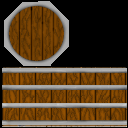
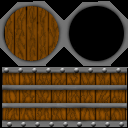
Barrels shows what liquid they carry; metal barrel doesn't look awful :D

diff --git a/planet/Objects.ocd/Items.ocd/Tools.ocd/Barrel.ocd/Script.c b/planet/Objects.ocd/Items.ocd/Tools.ocd/Barrel.ocd/Script.c
@@ -7,8 +7,6 @@
 
 local szLiquid;
 local iVolume;
-local Closed;
-local iDrain;
 
 local debug;
 
@@ -19,17 +17,14 @@ public func GetCarryPhase() { return 900; }
 protected func Initialize()
 {
 	iVolume = 0;
-	Closed = false;
-	iDrain = 3 + RandomX(0,2); //Vertical offset of liquid intake from barrel center
-
 	debug=0;
 }
 
 private func Hit()
 {
 	Sound("WoodHit");
-	if(iVolume >= 1 && Closed == false) {
-		if(GBackLiquid(0,iDrain) && GetMaterial(0,iDrain) != szLiquid) return 0;
+	if(iVolume >= 1) {
+		if(GBackLiquid(0,3) && GetMaterial(0,3) != szLiquid) return 0;
 		EmptyBarrel(GetR());
 		Sound("Splash1");
 	}
@@ -38,11 +33,12 @@ private func Hit()
 private func Check()
 {
 	//Fills Barrel with specified liquid from if submerged
-	var iSource = iDrain + RandomX(0,4);
+	var iSource = 3;
 
-	//if(GetMaterial(0,iSource) == Material("Water") && Closed == false) FillBarrel("Water");
-	//if(GetMaterial(0,iSource)== Material("Oil") && Closed==false) FillBarrel("Oil");
-	if(GBackLiquid(0,iSource) && Closed == false) FillBarrel(MaterialName(GetMaterial(0,iSource)));
+	if(GBackLiquid(0,iSource))
+	{
+		FillWithLiquid();
+	}
 
 	if(iVolume == 0) {
 		SetGraphics();
@@ -57,14 +53,27 @@ private func Check()
 	if(debug == 1) Message("Volume:|%d|Liquid:|%s", iVolume, szLiquid);
 }
 
+//over-ridden with metal barrel
+private func FillWithLiquid()
+{
+	var mat = GetMaterial();
+
+	if(mat == Material("Water"))
+	{
+		FillBarrel(MaterialName(mat));
+		SetMeshMaterial("Barrel_Water");
+	}
+}
+
 private func FillBarrel(string szMat)
 {
 	var iCapacity = 300;
+	var intake = 3;
 	
 	if(iVolume >= 1 && szMat != szLiquid) return 0;
-	while(iVolume != iCapacity && GetMaterial(0,iDrain) == Material(szMat))
+	while(iVolume != iCapacity && GetMaterial(0,intake) == Material(szMat))
 	{
-		ExtractLiquid(0,iDrain);
+		ExtractLiquid(0,intake);
 		iVolume = ++iVolume;
 	}
 	szLiquid = szMat;
@@ -76,16 +85,17 @@ private func EmptyBarrel(int iAngle, int iStrength)
 	if(!iStrength) iStrength = 30;
 	CastPXS(szLiquid, iVolume,iStrength,0,0,iAngle,30);
 	iVolume = 0;
+	OriginalTex();
+}
+
+//over-ridden with metal barrel
+private func OriginalTex()
+{
+	SetMeshMaterial("Barrel");
 }
 
 public func ControlUse(object clonk, int iX, int iY)
 {
-	if(Closed == true) {
-		Closed = false;
-		Sound(" "); //Wood scrape sound
-		return 1;
-	}
-
 	var AimAngle=Angle(0,0, iX, iY);
 	if(iVolume >= 1)
 	{
@@ -98,6 +108,9 @@ public func ControlUse(object clonk, int iX, int iY)
 
 public func IsToolProduct() { return 1; }
 
+func Definition(def) {
+	SetProperty("PictureTransformation",Trans_Mul(Trans_Translate(0,1000,0), Trans_Rotate(-40,1,0,0), Trans_Rotate(20,0,0,1)), def);
+}
 local Collectible = 1;
 local Name = "$Name$";
 local Description = "$Description$";

diff --git a/planet/Objects.ocd/Items.ocd/Tools.ocd/Barrel.ocd/MetalBarrel.ocd/Script.c b/planet/Objects.ocd/Items.ocd/Tools.ocd/Barrel.ocd/MetalBarrel.ocd/Script.c
@@ -1,0 +1,66 @@
+/*--
+	Metal Barrel
+	Author: Ringwaul
+
+	A sturdier barrel that can transport lava or acid.
+--*/
+
+#include Barrel
+
+local szLiquid;
+local iVolume;
+
+local debug;
+
+
+protected func Initialize()
+{
+	iVolume = 0;
+	debug=0;
+}
+
+private func Hit()
+{
+	Sound("Clonk.ogg");
+	if(iVolume >= 1) {
+		if(GBackLiquid(0,7) && GetMaterial(0,7) != szLiquid) return 0;
+		EmptyBarrel(GetR());
+		Sound("Splash1");
+	}
+}
+
+private func FillWithLiquid()
+{
+	var mat = GetMaterial();
+
+	if(mat == Material("Water"))
+	{
+		FillBarrel(MaterialName(mat));
+		SetMeshMaterial("MB_Water");
+		return 1;
+	}
+
+	if(mat == Material("Acid"))
+	{
+		FillBarrel(MaterialName(mat));
+		SetMeshMaterial("MB_Acid");
+		return 1;
+	}
+
+	if(mat == Material("Lava") || mat == Material("DuroLava"))
+	{
+		FillBarrel(MaterialName(mat));
+		SetMeshMaterial("MB_Lava");
+		return 1;
+	}
+}
+
+private func OriginalTex()
+{
+	SetMeshMaterial("MetalBarrel");
+}
+
+local Collectible = 1;
+local Name = "$Name$";
+local Description = "$Description$";
+local Rebuy = true;
